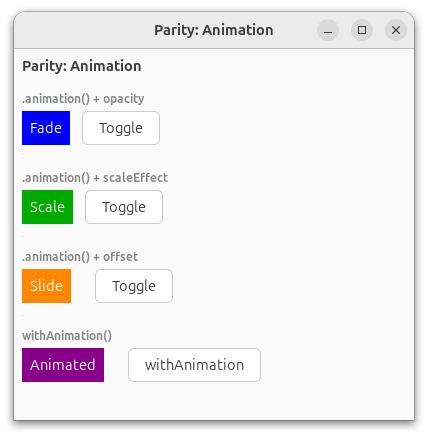
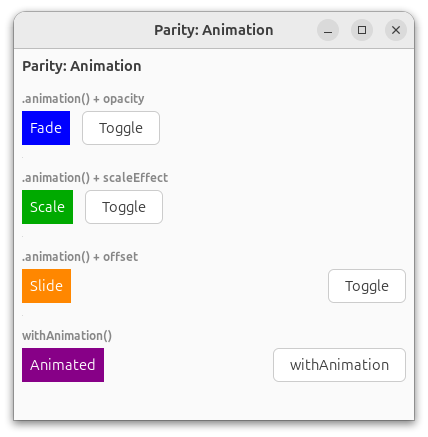
Fix FrameView: propagate child hexpand/vexpand to wrapper
FrameView(.frame()) creates a wrapper GtkBox but did not propagate
the child's hexpand/vexpand flags when the frame didn't constrain
that axis. This caused Spacer inside HStack inside .frame(height:)
to lose horizontal expansion — the Spacer collapsed to zero width.

Now propagates child expand flags to wrapper when width/maxWidth
(or height/maxHeight) are nil for that axis.

Fixes: Spacer in ViewsBasic parity example now spans full width.
Recaptured affected screenshots.

diff --git a/Sources/Backend/GTK4/Rendering/GTKRenderer.swift b/Sources/Backend/GTK4/Rendering/GTKRenderer.swift
@@ -481,6 +481,15 @@ extension FrameView: GTKRenderable {
             else { css += "max-height: \(Int(xh))px; " }
         }
         if !css.isEmpty { applyCSSToWidget(wrapper, properties: css) }
+        // Propagate child expand flags to wrapper when the frame doesn't
+        // constrain that axis.  Without this, a Spacer inside an HStack
+        // inside .frame(height:) loses its horizontal expansion.
+        if width == nil && maxWidth == nil && gtk_widget_get_hexpand(child) != 0 {
+            gtk_widget_set_hexpand(wrapper, 1)
+        }
+        if height == nil && maxHeight == nil && gtk_widget_get_vexpand(child) != 0 {
+            gtk_widget_set_vexpand(wrapper, 1)
+        }
         gtk_box_append(boxPointer(wrapper), child)
         return opaqueFromWidget(wrapper)
     }
